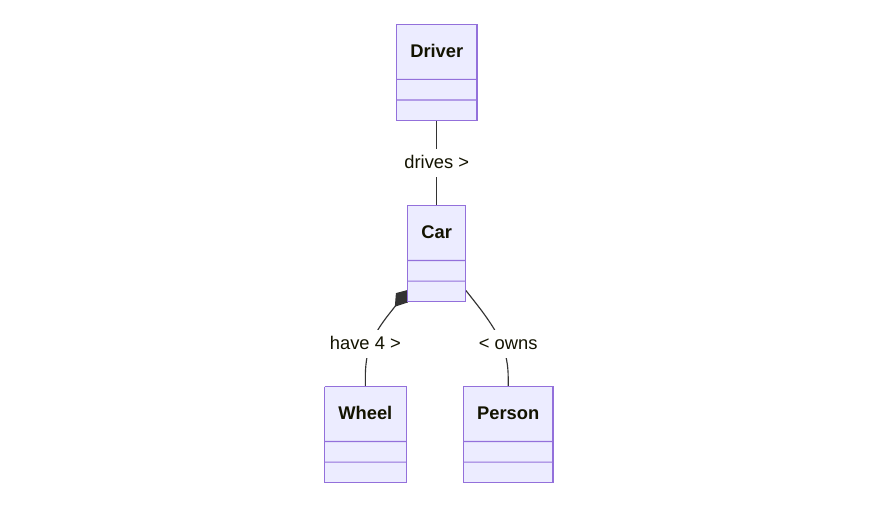
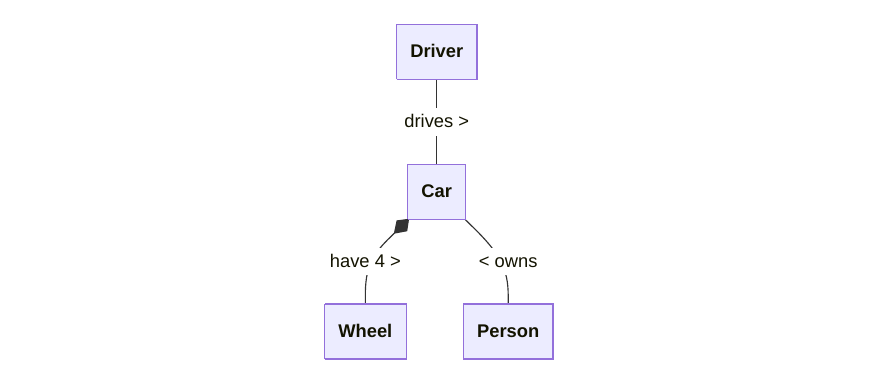
UML diagrams: the Mermaid class diagram hides empty member boxes

diff --git a/uml-diagrams/class-relations--ltmermaid.tex b/uml-diagrams/class-relations--ltmermaid.tex
@@ -5,6 +5,11 @@
 \usepackage[Renderer={mmdc -p puppeteer.json}]{ltmermaid}
 \begin{document}
 \begin{mermaid}
+---
+config:
+  class:
+    hideEmptyMembersBox: true
+---
 classDiagram
   Driver -- Car : drives >
   Car *-- Wheel : have 4 >

diff --git a/uml-diagrams.md b/uml-diagrams.md
@@ -73,8 +73,8 @@ All MWEs above are typeset in a sans-serif font:
 
 | MetaUML | tikz-uml | Mermaid (ltMermaid) |
 | -- | -- | -- |
-| ![class relations, name only, MetaUML](uml-diagrams/class-relations--name-only--metauml.png) | ![class relations, name only, tikz-uml](uml-diagrams/class-relations--name-only--tikz-uml.png) | ![class relations, name only, Mermaid](uml-diagrams/class-relations--name-only--ltmermaid.png) |
-| `EClass.Car(iClassNameOnly)("Car")()();` (or `ClassName.Car("Car");`). MetaUML still draws the lines of the (empty) compartments; redefining `Class_paintSkin` omits them (see [class-relations--name-only--metauml.tex](uml-diagrams/class-relations--name-only--metauml.tex)). A small empty space below the name remains. | `\umlsimpleclass{Car}` instead of `\umlemptyclass{Car}` | `hideEmptyMembersBox: true` in the front matter of the diagram (see [class-relations--name-only--ltmermaid.tex](uml-diagrams/class-relations--name-only--ltmermaid.tex)) |
+| ![class relations, name only, MetaUML](uml-diagrams/class-relations--name-only--metauml.png) | ![class relations, name only, tikz-uml](uml-diagrams/class-relations--name-only--tikz-uml.png) | ![class relations, Mermaid](uml-diagrams/class-relations--ltmermaid.png) |
+| `EClass.Car(iClassNameOnly)("Car")()();` (or `ClassName.Car("Car");`). MetaUML still draws the lines of the (empty) compartments; redefining `Class_paintSkin` omits them (see [class-relations--name-only--metauml.tex](uml-diagrams/class-relations--name-only--metauml.tex)). A small empty space below the name remains. | `\umlsimpleclass{Car}` instead of `\umlemptyclass{Car}` | `hideEmptyMembersBox: true` in the front matter of the diagram (used in the comparison above, see [class-relations--ltmermaid.tex](uml-diagrams/class-relations--ltmermaid.tex)) |
 
 - pgf-umlcd: an empty `class` environment still shows the empty compartments.
 - pst-uml: `\umlClass{Car}{}` shows the name only (see above).
